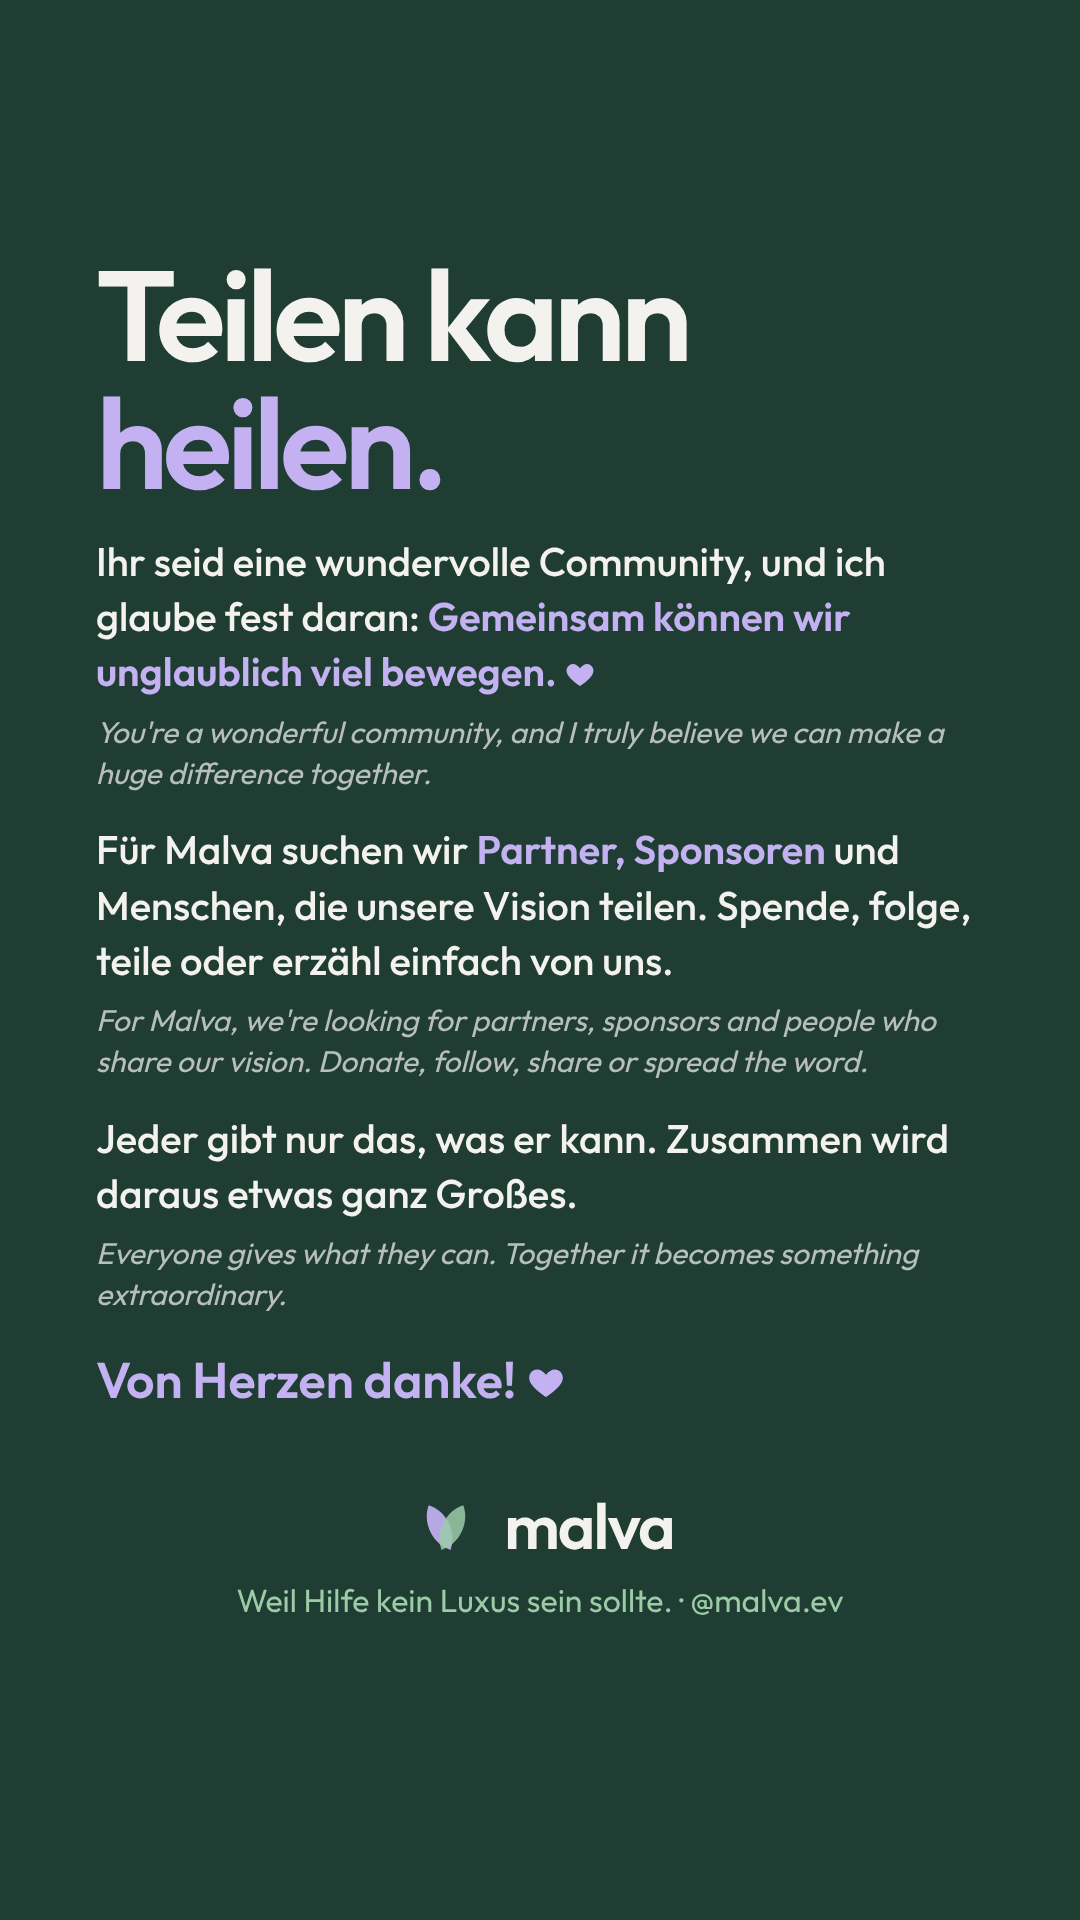
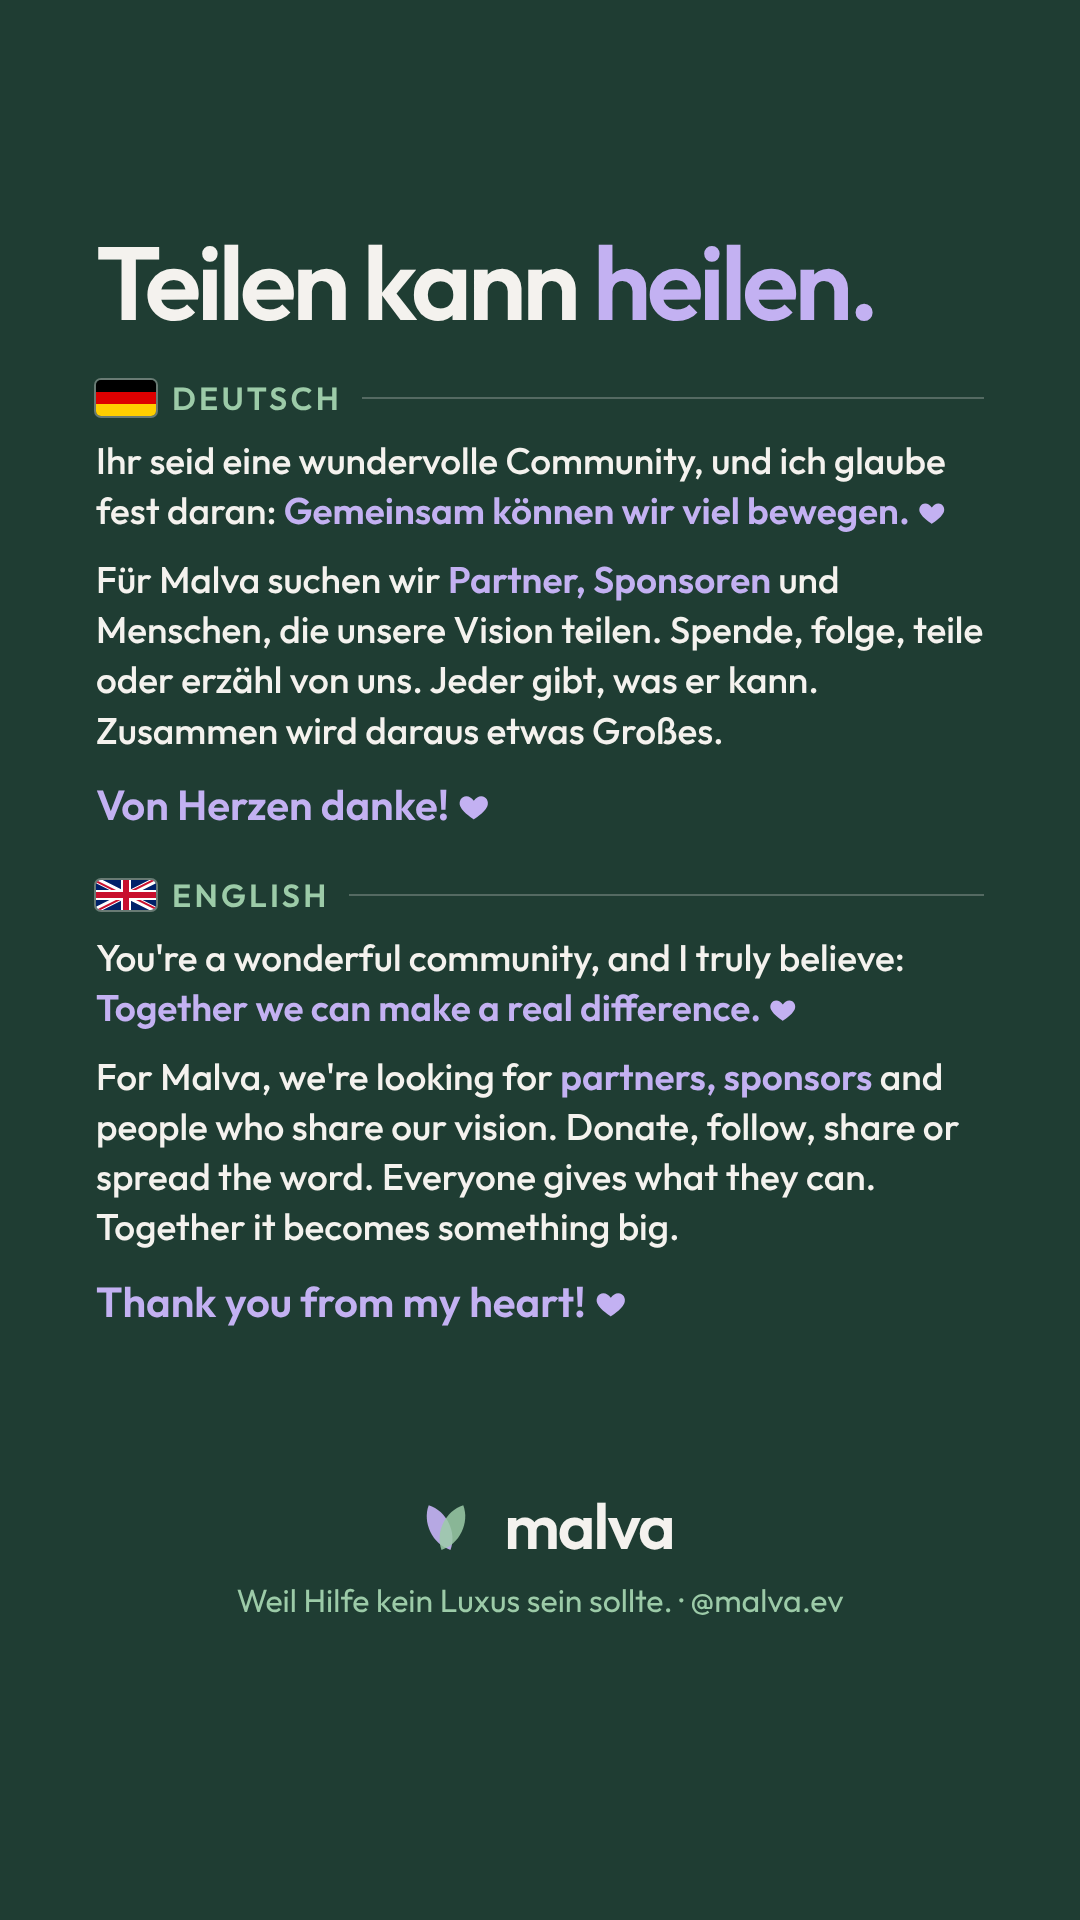
Story: Deutsch oben, Englisch unten, mit Flaggen
Claude-Session: https://claude.ai/code/session_015uEer6M6e5oi78ZvJtGjnt

Changed region(s): [[0.0917, 0.125, 0.9167, 0.75], [0.7944, 0.375, 0.8556, 0.4062]]

diff --git a/malva-website/instagram/story-community/slides.html b/malva-website/instagram/story-community/slides.html
@@ -35,14 +35,20 @@ h2{font-weight:600;font-size:82px;line-height:1.12;letter-spacing:-.025em}
 .st{width:1080px;height:1920px;padding:250px 96px 300px;justify-content:flex-start}
 .t{font-weight:600;font-size:150px;line-height:1;letter-spacing:-.04em}
 .p{font-size:46px;line-height:1.38;font-weight:500;margin-top:34px}
-.deen .p{font-size:40px;margin-top:28px}
-.deen .t{font-size:128px}
+.deen{padding-top:230px}
+.deen .p{font-size:37px;line-height:1.36;margin-top:18px}
+.deen .t{font-size:104px}
+.lang{margin-top:44px;display:flex;align-items:center;gap:20px}
+.lang::after{content:"";flex:1;height:2px;background:rgba(244,242,238,.25)}
+.lang__tag{display:inline-flex;align-items:center;gap:16px;font-weight:600;font-size:32px;letter-spacing:.1em;text-transform:uppercase;color:var(--sl)}
+.flag{width:60px;height:36px;border-radius:5px;box-shadow:0 0 0 2px rgba(244,242,238,.35)}
+.flag[viewBox="0 0 60 30"]{height:30px}
 .p b{font-weight:600;color:var(--ll)}
 .en{font-size:30px;line-height:1.38;opacity:.72;margin-top:12px;font-style:italic}
 .sep{display:flex;gap:14px;align-items:center;margin-top:50px}
 .sep span{width:34px} .sep svg{width:34px;height:34px}
 .thanks{font-weight:600;font-size:60px;margin-top:44px;color:var(--ll)}
-.deen .thanks{font-size:50px;margin-top:32px}
+.deen .thanks{font-size:42px;margin-top:22px}
 .heart{display:inline-block;width:.8em;height:.8em;vertical-align:-.08em}
 .logo-b{margin-top:auto;display:flex;justify-content:center}
 .logo-b .brand{position:static;font-size:64px;gap:18px}.logo-b .brand svg{height:80px}
@@ -65,14 +71,15 @@ h2{font-weight:600;font-size:82px;line-height:1.12;letter-spacing:-.025em}
   <p class="claim2">Weil Hilfe kein Luxus sein sollte. · @malva.ev</p>
 </section>
 <section class="slide dark st deen" id="deen">
-  <h1 class="t">Teilen kann<br><span class="hl">heilen.</span></h1>
-  <p class="p">Ihr seid eine wundervolle Community, und ich glaube fest daran: <b>Gemeinsam können wir unglaublich viel&nbsp;bewegen.&nbsp;<svg class="heart" viewBox="0 0 24 24"><path d="M12 21s-7.5-4.6-9.6-9.2C.9 8.4 3 4.5 6.7 4.5c2.1 0 3.6 1.2 5.3 3.2 1.7-2 3.2-3.2 5.3-3.2 3.7 0 5.8 3.9 4.3 7.3C19.5 16.4 12 21 12 21z" fill="#C3B1F2"/></svg></b></p>
-  <p class="en">You're a wonderful community, and I truly believe we can make a huge difference together.</p>
-  <p class="p">Für Malva suchen wir <b>Partner, Sponsoren</b> und Menschen, die unsere Vision teilen. Spende, folge, teile oder erzähl einfach von uns.</p>
-  <p class="en">For Malva, we're looking for partners, sponsors and people who share our vision. Donate, follow, share or spread the word.</p>
-  <p class="p">Jeder gibt nur das, was er kann. Zusammen wird daraus etwas ganz Großes.</p>
-  <p class="en">Everyone gives what they can. Together it becomes something extraordinary.</p>
+  <h1 class="t">Teilen kann <span class="hl">heilen.</span></h1>
+  <div class="lang"><span class="lang__tag"><svg class="flag" viewBox="0 0 5 3"><rect width="5" height="1" y="0" fill="#000"/><rect width="5" height="1" y="1" fill="#DD0000"/><rect width="5" height="1" y="2" fill="#FFCE00"/></svg>Deutsch</span></div>
+  <p class="p">Ihr seid eine wundervolle Community, und ich glaube fest daran: <b>Gemeinsam können wir viel&nbsp;bewegen.&nbsp;<svg class="heart" viewBox="0 0 24 24"><path d="M12 21s-7.5-4.6-9.6-9.2C.9 8.4 3 4.5 6.7 4.5c2.1 0 3.6 1.2 5.3 3.2 1.7-2 3.2-3.2 5.3-3.2 3.7 0 5.8 3.9 4.3 7.3C19.5 16.4 12 21 12 21z" fill="#C3B1F2"/></svg></b></p>
+  <p class="p">Für Malva suchen wir <b>Partner, Sponsoren</b> und Menschen, die unsere Vision teilen. Spende, folge, teile oder erzähl von uns. Jeder gibt, was er kann. Zusammen wird daraus etwas Großes.</p>
   <p class="thanks">Von Herzen danke! <svg class="heart" viewBox="0 0 24 24"><path d="M12 21s-7.5-4.6-9.6-9.2C.9 8.4 3 4.5 6.7 4.5c2.1 0 3.6 1.2 5.3 3.2 1.7-2 3.2-3.2 5.3-3.2 3.7 0 5.8 3.9 4.3 7.3C19.5 16.4 12 21 12 21z" fill="#C3B1F2"/></svg></p>
+  <div class="lang lang--en"><span class="lang__tag"><svg class="flag" viewBox="0 0 60 30"><clipPath id="ukS"><path d="M0,0 v30 h60 v-30 z"/></clipPath><clipPath id="ukT"><path d="M30,15 h30 v15 z v15 h-30 z h-30 v-15 z v-15 h30 z"/></clipPath><g clip-path="url(#ukS)"><path d="M0,0 v30 h60 v-30 z" fill="#012169"/><path d="M0,0 L60,30 M60,0 L0,30" stroke="#fff" stroke-width="6"/><path d="M0,0 L60,30 M60,0 L0,30" clip-path="url(#ukT)" stroke="#C8102E" stroke-width="4"/><path d="M30,0 v30 M0,15 h60" stroke="#fff" stroke-width="10"/><path d="M30,0 v30 M0,15 h60" stroke="#C8102E" stroke-width="6"/></g></svg>English</span></div>
+  <p class="p">You're a wonderful community, and I truly believe: <b>Together we can make a real difference.&nbsp;<svg class="heart" viewBox="0 0 24 24"><path d="M12 21s-7.5-4.6-9.6-9.2C.9 8.4 3 4.5 6.7 4.5c2.1 0 3.6 1.2 5.3 3.2 1.7-2 3.2-3.2 5.3-3.2 3.7 0 5.8 3.9 4.3 7.3C19.5 16.4 12 21 12 21z" fill="#C3B1F2"/></svg></b></p>
+  <p class="p">For Malva, we're looking for <b>partners, sponsors</b> and people who share our vision. Donate, follow, share or spread the word. Everyone gives what they can. Together it becomes something big.</p>
+  <p class="thanks">Thank you from my heart! <svg class="heart" viewBox="0 0 24 24"><path d="M12 21s-7.5-4.6-9.6-9.2C.9 8.4 3 4.5 6.7 4.5c2.1 0 3.6 1.2 5.3 3.2 1.7-2 3.2-3.2 5.3-3.2 3.7 0 5.8 3.9 4.3 7.3C19.5 16.4 12 21 12 21z" fill="#C3B1F2"/></svg></p>
   <div class="logo-b"><div class="brand" data-mark="d"><span>malva</span></div></div>
   <p class="claim2">Weil Hilfe kein Luxus sein sollte. · @malva.ev</p>
 </section>
